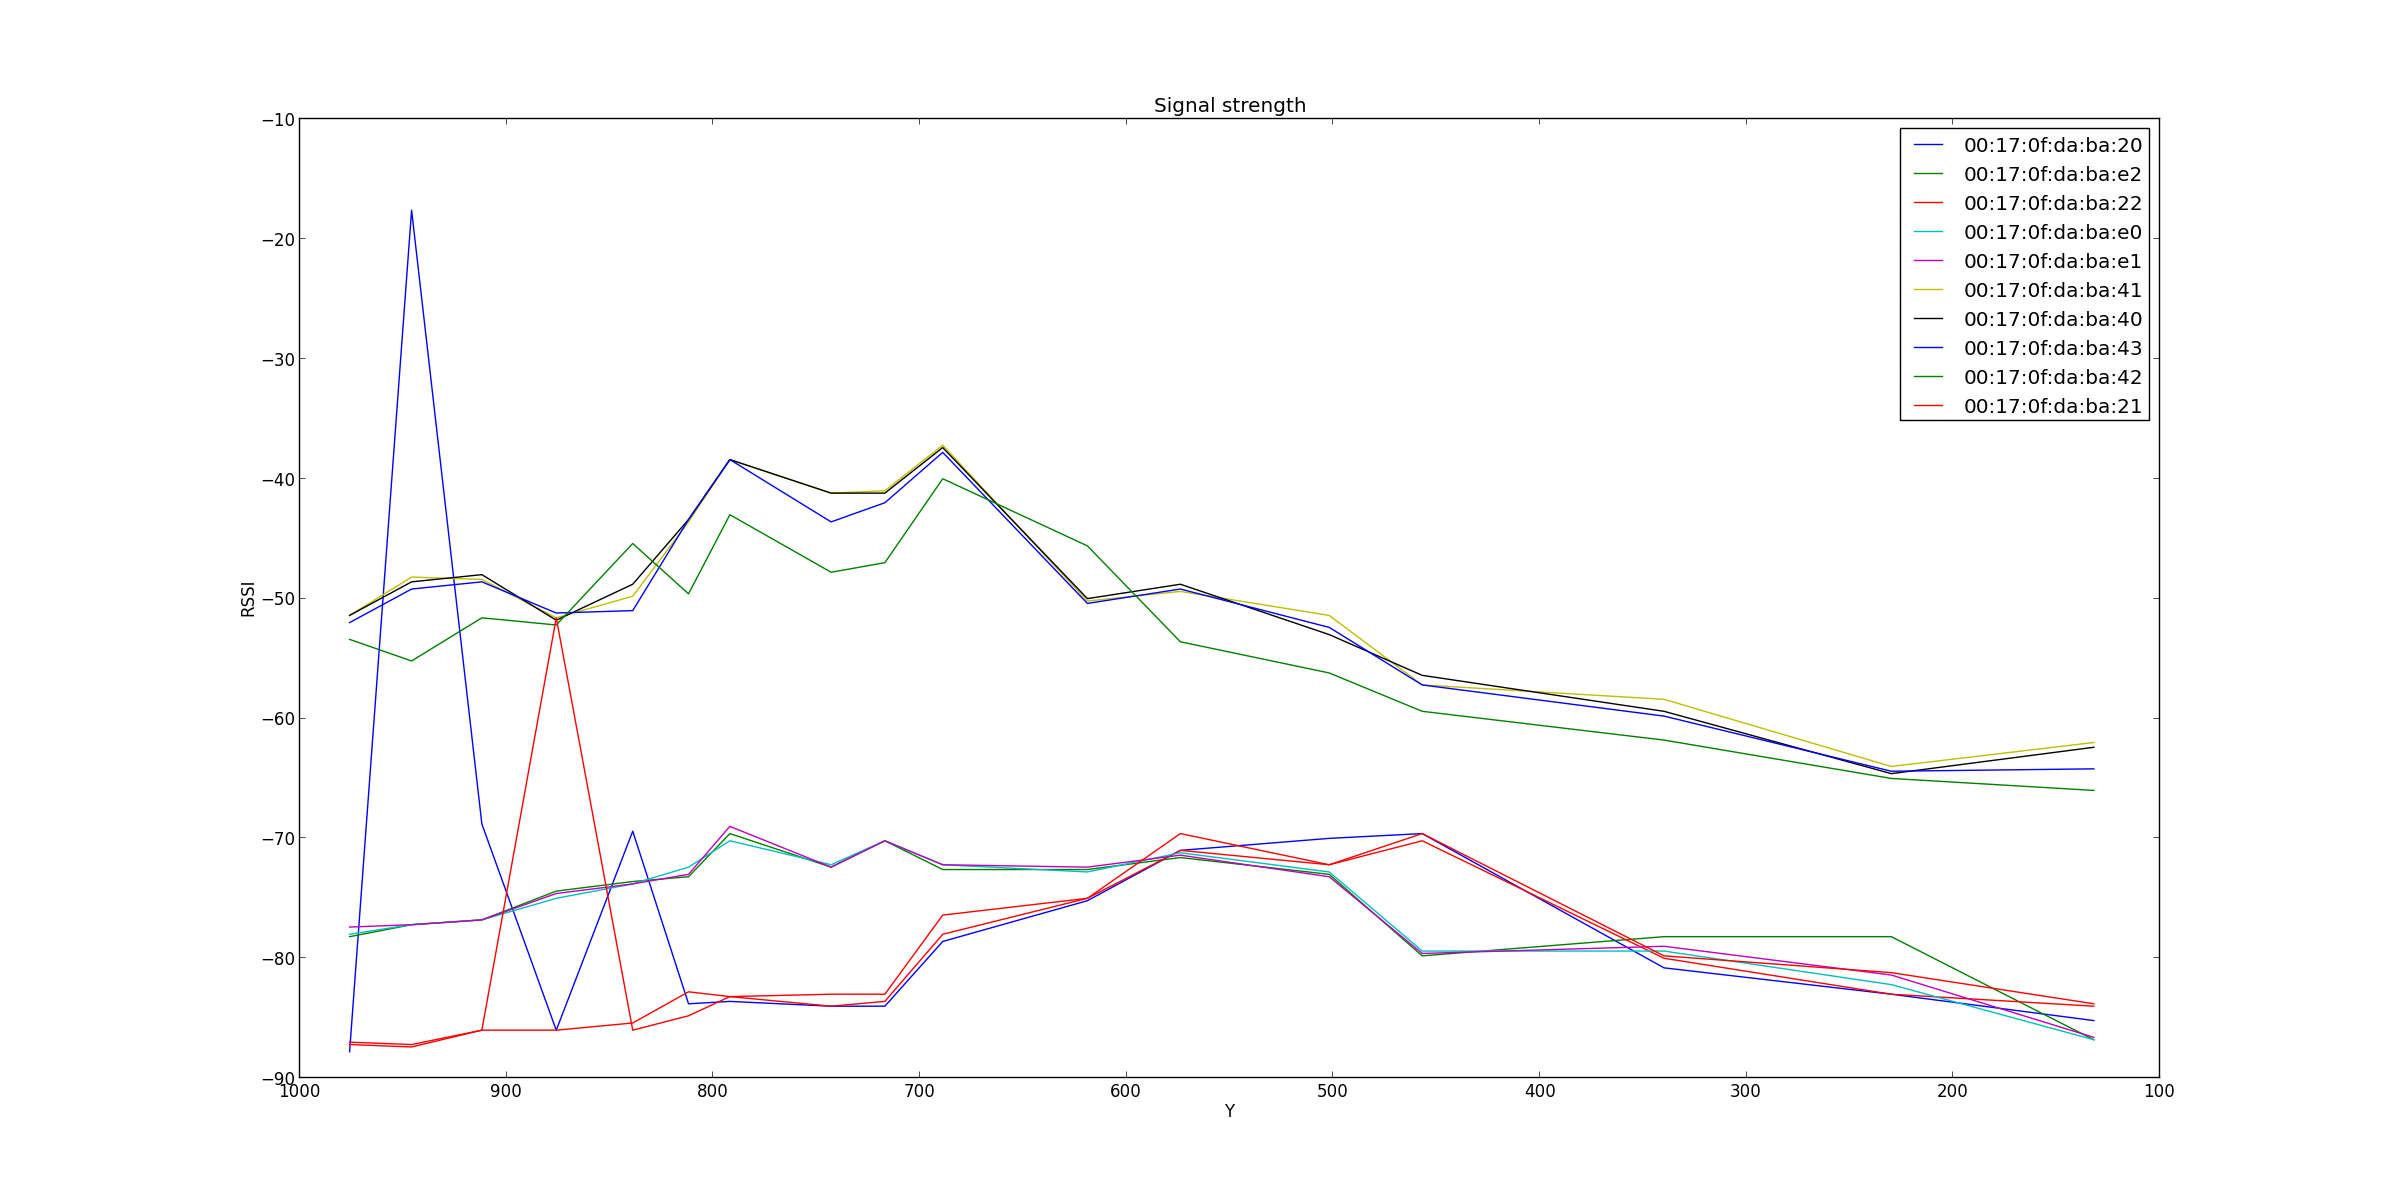
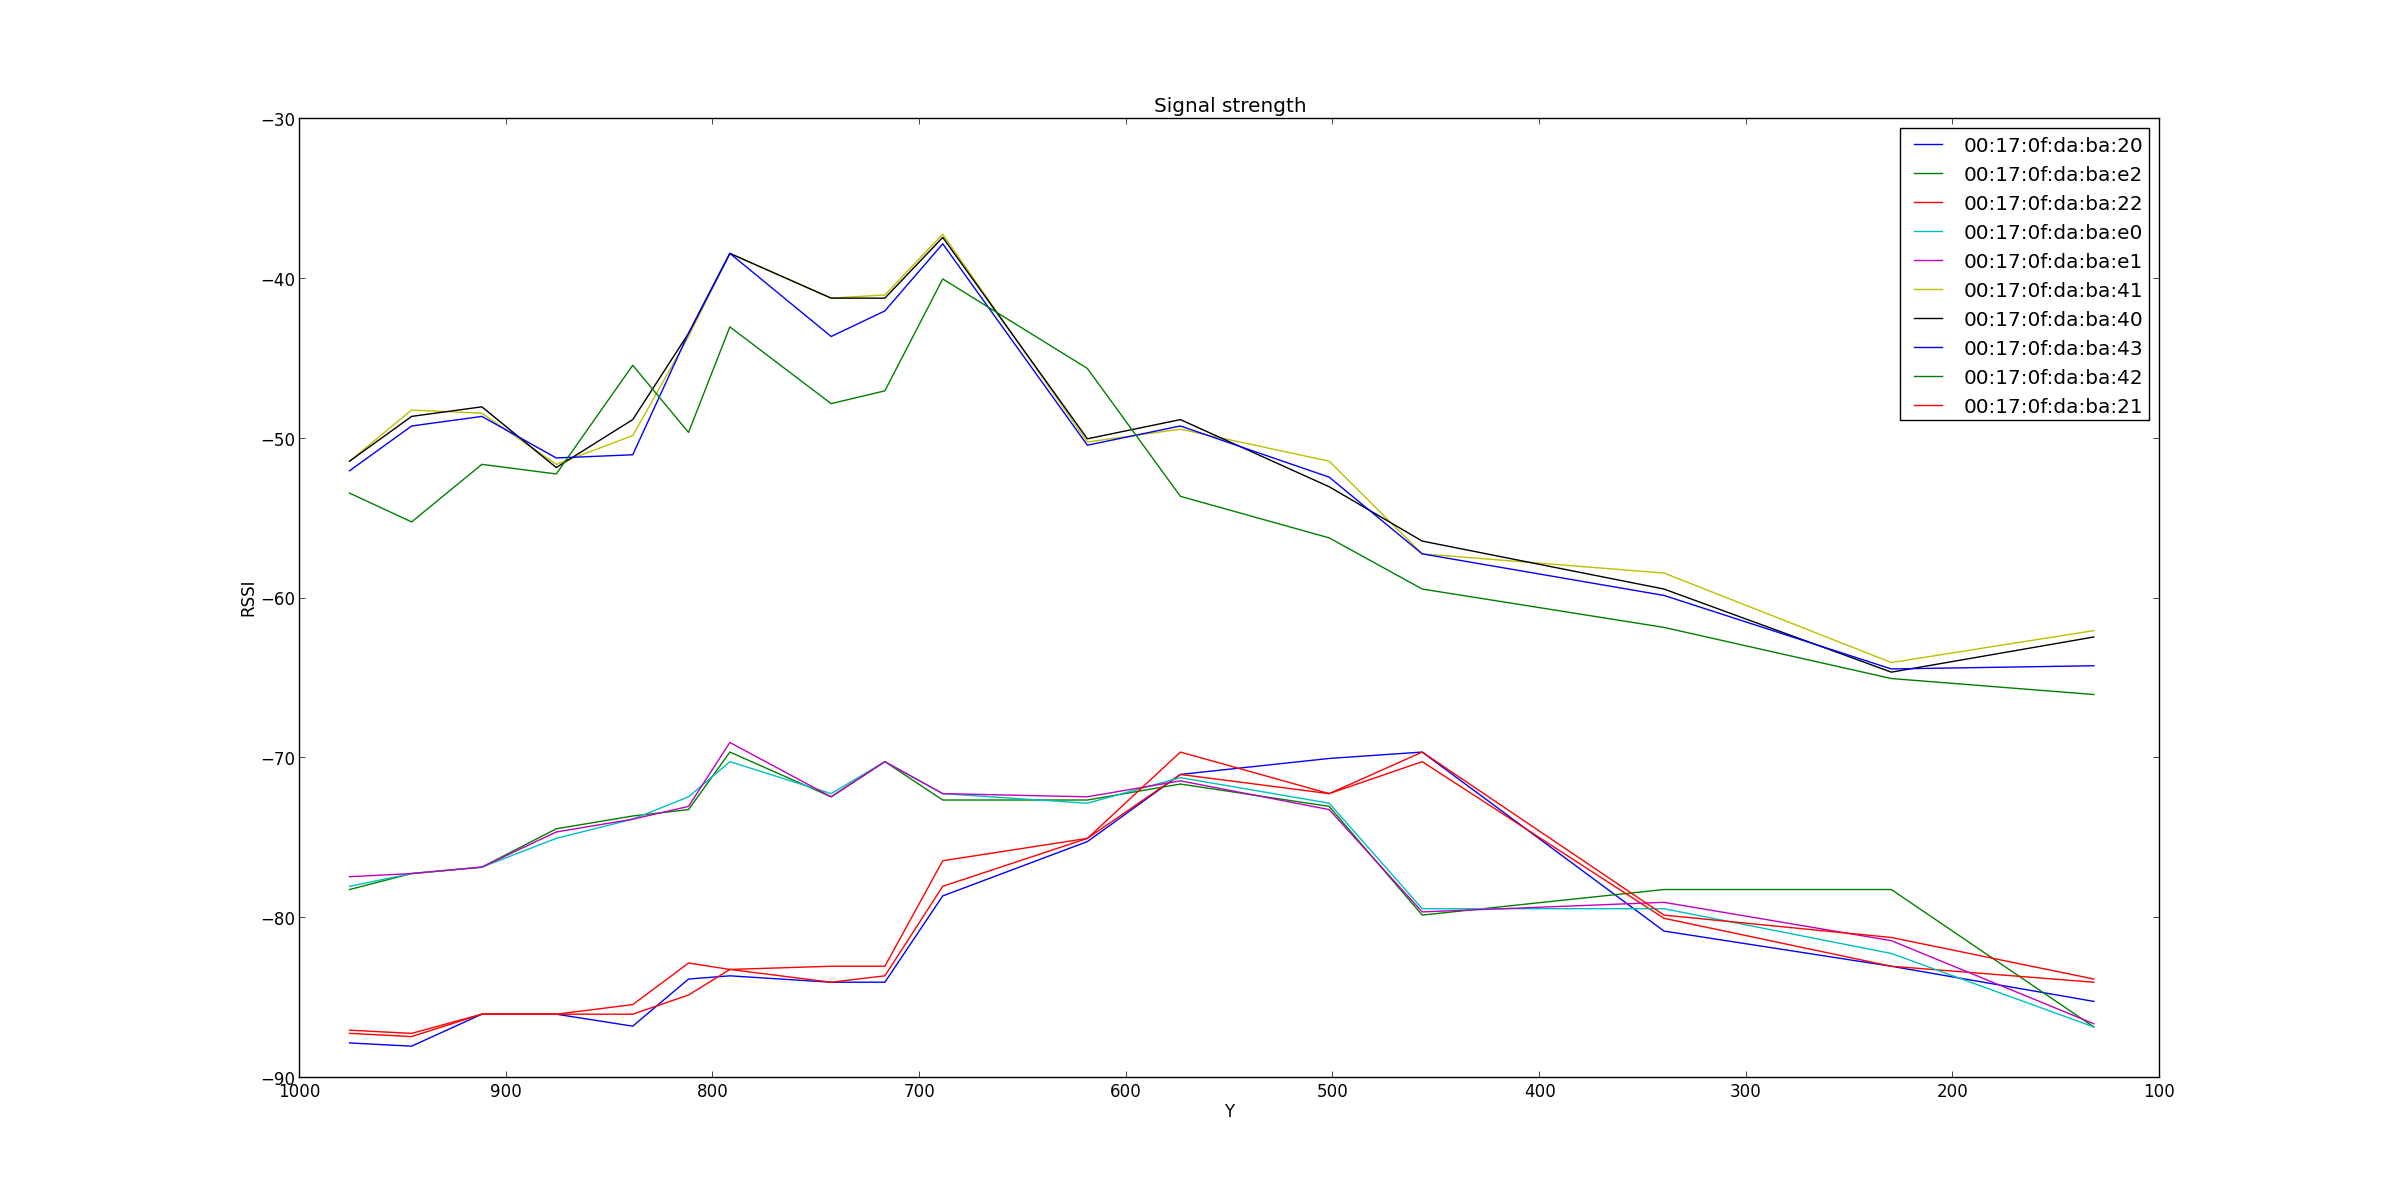
Fix empty BSSID field in some samples

diff --git a/python/parser.py b/python/parser.py
@@ -34,10 +34,14 @@ def parse():
             if bssid.startswith(FSLMARK):
                 bssids.add(bssid)
                 added = 0
+                ct = 0.0
                 for entry in allTogether:
                     if entry["bssid"] == bssid:
                         added += entry["rssi"]
-                meds.append((bssid, added / 5.0))
+                        ct += 1
+                if ct == 0:
+                    ct = 1
+                meds.append((bssid, added / ct))
 
         outcome.append((point['x'], point['y'], meds))
 

diff --git a/python/plotter.py b/python/plotter.py
@@ -18,6 +18,8 @@ Ys = [el[1] for el in data]
 
 i = 0
 for values in allRSSIs:
+    print values
+    print Ys
     label = parser.bssids.pop()
     plt.plot(Ys, values, label=label)
     i += 1
